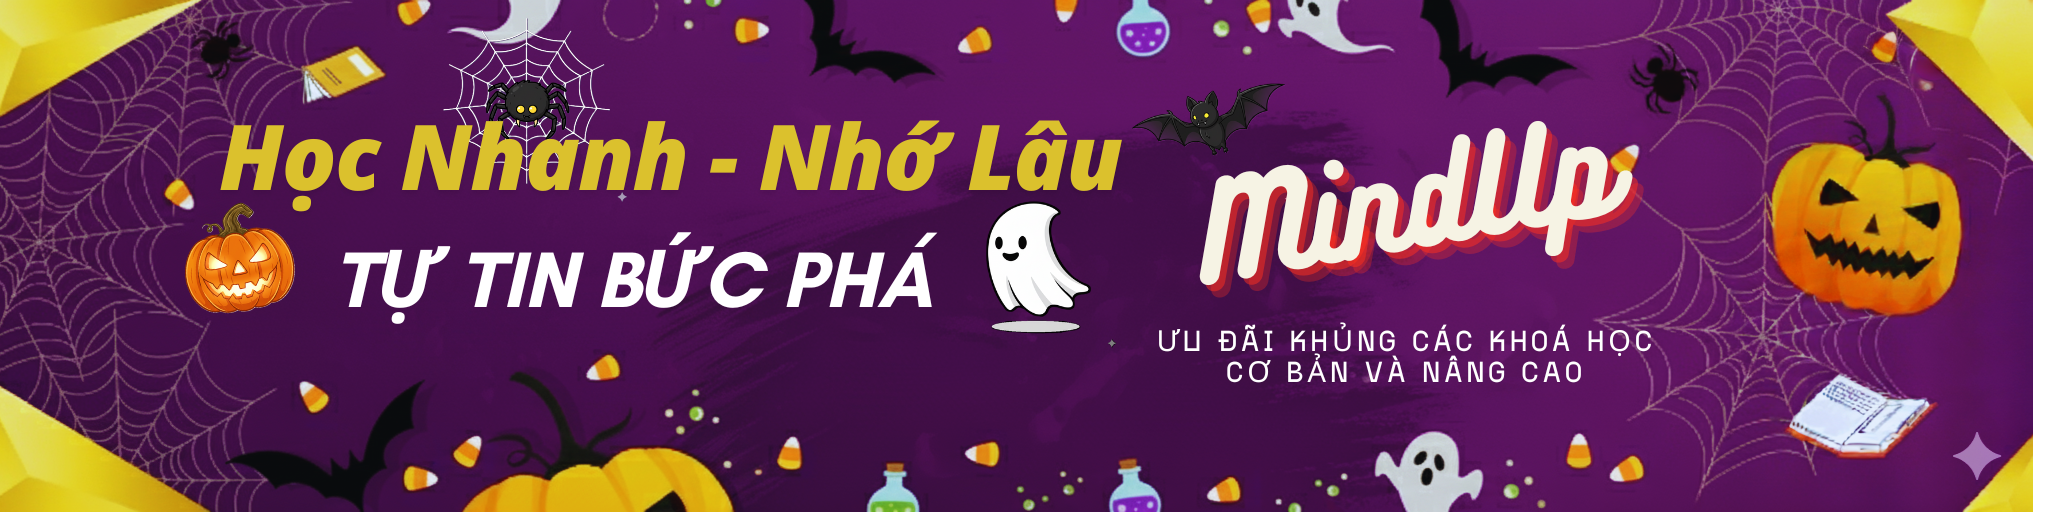
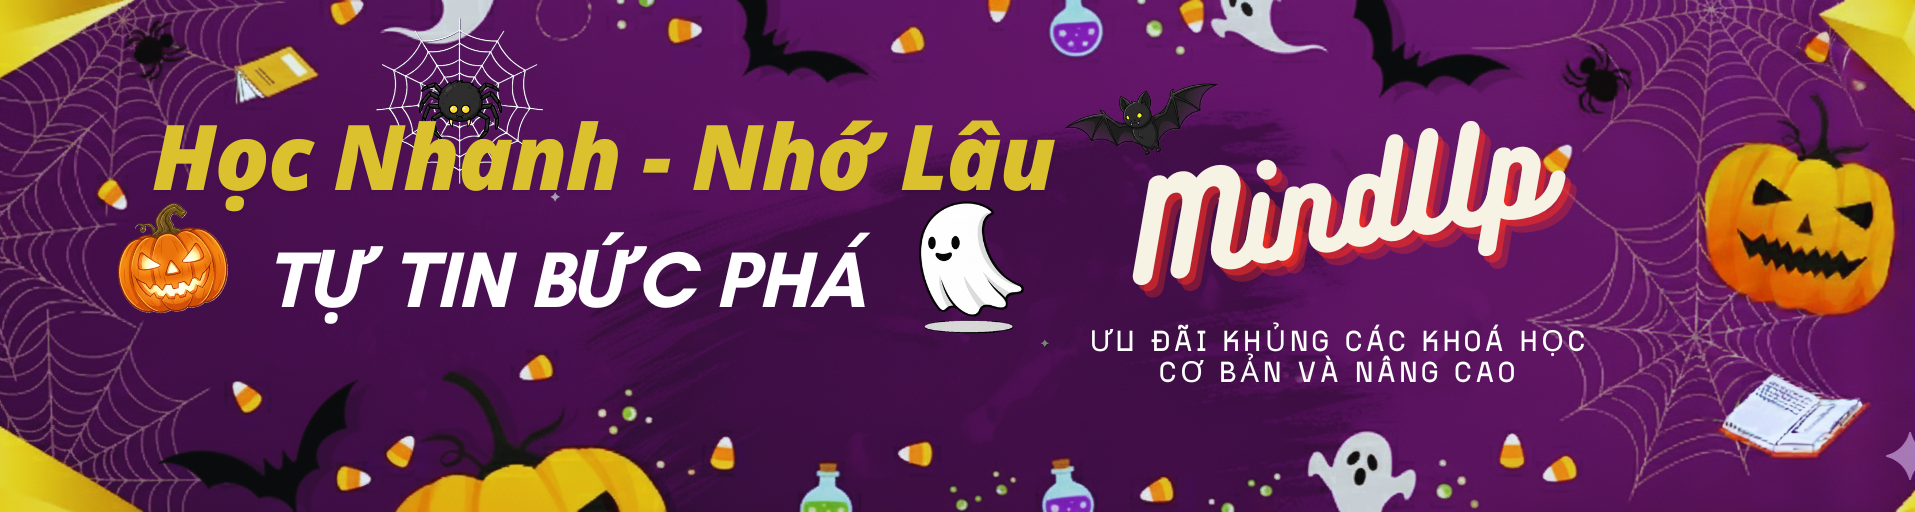
update landingpgae

diff --git a/components/hero/component.css b/components/hero/component.css
@@ -2,25 +2,103 @@
   width: 100%;
   display: flex;
   justify-content: center;
-  margin: 24px 0;
+  margin: 75px 0 0 0;
+  position: relative;
+  aspect-ratio: 3.5 / 1;
+  overflow: hidden;
 }
 
 .halloween-banner a {
-  display: block;
   overflow: hidden;
-  border-radius: 16px;
   box-shadow: 0 4px 12px rgba(0, 0, 0, 0.15);
   transition: transform 0.4s ease, box-shadow 0.4s ease;
 }
 
 .halloween-banner a:hover {
-  transform: scale(1.03);
   box-shadow: 0 8px 18px rgba(0, 0, 0, 0.25);
 }
 
 .halloween-banner .banner-img {
   width: 100%;
-  height: auto;
   object-fit: cover;
   display: block;
+}
+
+/* Button */
+.btn-explore {
+  position: absolute;
+  bottom: 28px;
+  left: 50%;
+  transform: translateX(-50%);
+  cursor: pointer;
+  font-family: 'SVN-Poppins', sans-serif;
+  text-transform: uppercase;
+  font-weight: 700;
+  font-size: 1.125rem;
+  letter-spacing: 0.1px;
+  color: #9333ea;
+  background-color: #ffffff;
+  padding: 0.5rem 1rem;
+  border-radius: 82px;
+  text-align: center;
+  box-shadow: 0px 0px 24px 0px #fff;
+  text-decoration: none;
+  display: inline-block;
+  border: 2px solid transparent;
+  transition: all 0.3s ease;
+  margin: 20px;
+}
+
+.btn-explore:hover {
+  border-color: #fff;
+  box-shadow: 0px 0px 28px 2px #fff;
+  transform: translateX(-50%) scale(1.03);
+}
+
+/* -------- Responsive -------- */
+
+/* iPad & tablet (width ≤ 1024px) */
+@media (max-width: 1024px) {
+  .halloween-banner {
+    aspect-ratio: 3.5 / 1;
+  }
+
+
+  .btn-explore {
+    font-size: 1rem;
+    padding: 0.8rem 1.8rem;
+    bottom: 24px;
+    display: none;
+  }
+}
+
+/* Mobile (width ≤ 768px) */
+@media (max-width: 768px) {
+  .halloween-banner {
+    aspect-ratio: 3.5 / 1;
+    margin: 60px 0 0 0;
+  }
+
+
+  .btn-explore {
+    font-size: 0.95rem;
+    padding: 0.7rem 1.5rem;
+    bottom: 18px;
+    display: none;
+  }
+}
+
+/* Very small mobile (width ≤ 480px) */
+@media (max-width: 480px) {
+  .halloween-banner {
+    aspect-ratio: 3.5 / 1;
+  }
+
+  .halloween-banner .banner-img {
+    margin-top: 20px;
+  }
+
+  .btn-explore {
+    display: none;
+  }
 }

diff --git a/components/new/component.html b/components/new/component.html
@@ -10,7 +10,7 @@
         
         <!-- Hình ảnh -->
         <div class="image-wrapper">
-          <img src="/public/about/banner.jpg" alt="Lộ trình học IELTS">
+          <img src="/public/about/banner.png" alt="Lộ trình học IELTS">
         </div>
 
         <!-- Nội dung -->
@@ -26,7 +26,7 @@
 
           <div class="timeline">
             <!-- Step 1 -->
-            <a href="/khoa-hoc-target-5-0" class="step">
+            <a href="https://mindup-vn.vercel.app/courses/1" class="step">
               <div class="dot"></div>
               <div class="step-content">
                 <h6>Bước 1: Nền tảng (0 – 5.0)</h6>
@@ -36,7 +36,7 @@
             </a>
 
             <!-- Step 2 -->
-            <a href="/khoa-hoc-target-6-5" class="step">
+            <a href="https://mindup-vn.vercel.app/courses/2" class="step">
               <div class="dot"></div>
               <div class="step-content">
                 <h6>Bước 2: Tăng tốc (5.0 – 6.5)</h6>
@@ -46,7 +46,7 @@
             </a>
 
             <!-- Step 3 -->
-            <a href="/khoa-hoc-target-7-0" class="step">
+            <a href="https://mindup-vn.vercel.app/courses/3" class="step">
               <div class="dot"></div>
               <div class="step-content">
                 <h6>Bước 3: Chinh phục (7.0+)</h6>

diff --git a/components/hero/component.html b/components/hero/component.html
@@ -1,12 +1,13 @@
 <div id="home" class="halloween-banner">
-  <a
-    href="https://mindup-vn.vercel.app"
-    target="_self"
-  >
+  <a href="https://mindup-vn.vercel.app" target="_self">
     <img
       src="/public/about/ban.png"
       alt="Halloween Banner"
       class="banner-img"
     />
+  </a>
+
+  <a href="https://mindup-vn.vercel.app/courses" class="btn-explore">
+    Khám phá khóa học
   </a>
 </div>

diff --git a/components/header/component.css b/components/header/component.css
@@ -8,7 +8,7 @@
   background: linear-gradient(135deg, var(--primary) 0%, var(--primary-800) 100%);
   box-shadow: var(--shadow-lg);
   transition: all var(--transition-base);
-  padding: 20px;
+  padding: 8px;
 }
 
 .header-content {
@@ -121,7 +121,7 @@
 
   .nav-menu {
     position: fixed;
-    top: 80px;
+    top: 50px;
     left: 0;
     right: 0;
     flex-direction: column;

diff --git a/data.js b/data.js
@@ -26,7 +26,7 @@ const data = {
 
   // About Section
   about: {
-    label: "Giới thiệu",
+    // label: "Giới thiệu",
     title: "VỀ CHÚNG TÔI - TRUNG TÂM ANH NGỮ",
     subtitle: "MindUp cam kết kiến tạo lộ trình học tập hiệu quả, cá nhân hóa, giúp học viên chinh phục IELTS và mở cánh cửa tương lai.",
     intro:

diff --git a/render.js b/render.js
@@ -181,8 +181,6 @@ function renderNav(navData) {
 
 // Render About Section
 function renderAbout(aboutData) {
-  const sectionLabel = document.querySelector("#about .section-label")
-  sectionLabel.textContent = aboutData.label
 
   const sectionTitle = document.querySelector("#about .section-title")
   sectionTitle.textContent = aboutData.title

diff --git a/components/about/component.html b/components/about/component.html
@@ -1,7 +1,6 @@
 <section id="about" class="about-section">
     <div class="container">
         <div class="section-header" style="margin-bottom: -20px;">
-            <span class="section-label"></span>
             <h2 class="section-title"></h2>
             <p class="section-subtitle">
             </p>

diff --git a/components/header/component.html b/components/header/component.html
@@ -2,7 +2,7 @@
     <div class="container">
         <div class="header-content">
             <div class="logo">
-                <a href="/">
+                <a href="/#">
                     <img src="/public/logo/logo2.png" alt="MindUp Logo">
                 </a>
             </div>

diff --git a/components/new/component.css b/components/new/component.css
@@ -19,7 +19,7 @@
 .grid {
   display: grid;
   grid-template-columns: 3fr 2fr;
-  gap: 40px;
+  /* gap: 40px; */
   align-items: center;
 }
 

diff --git a/styles.css b/styles.css
@@ -859,7 +859,6 @@
 
     .back-to-top {
       right: var(--spacing-md);
-      bottom: calc(var(--spacing-md) + 180px);
     }
   }
 
